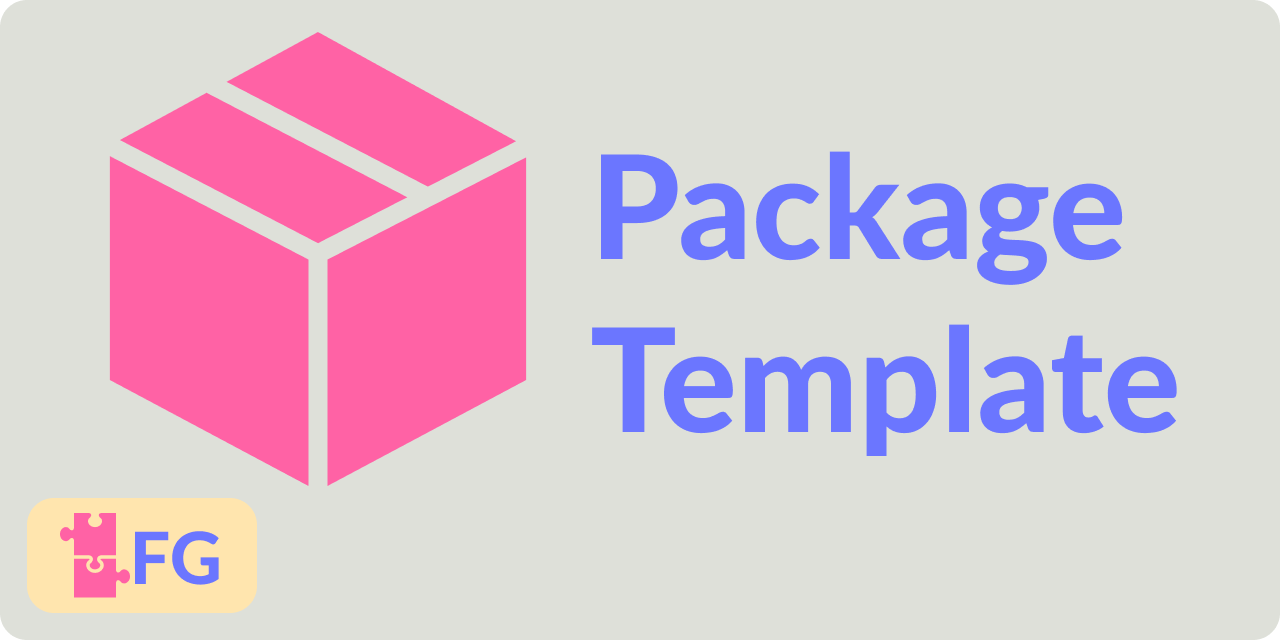
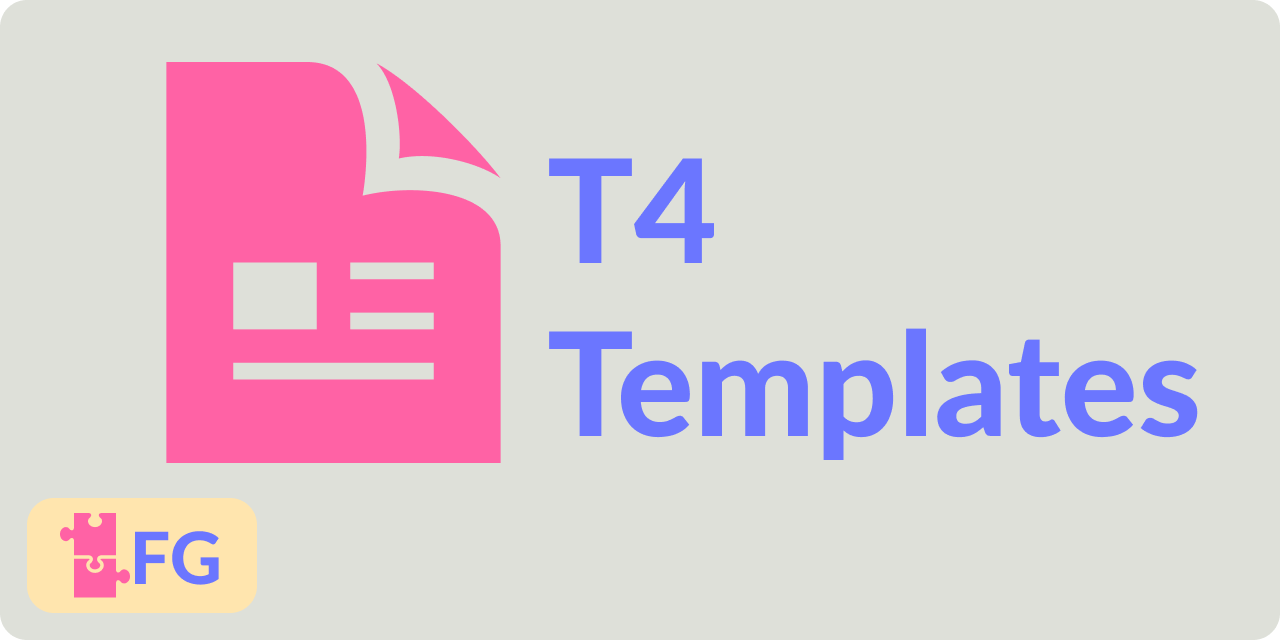
fix(header): Update header images 🎨

Changed region(s): [[0.0625, 0.0625, 0.9375, 0.75]]

diff --git a/README.md b/README.md
@@ -1,6 +1,6 @@
 # t4
 
-![Project logo; A pink package on a grey background, next to the text "T4" in purple](./Documentation~/header.png)
+![Project logo; A pink package on a grey background, next to the text "T4 Templates" in purple](./Documentation~/header.png)
 
 ![GitHub package.json version](https://img.shields.io/github/package-json/v/faster-games/t4)
 [![openupm](https://img.shields.io/npm/v/com.faster-games.t4?label=openupm&registry_uri=https://package.openupm.com)](https://openupm.com/packages/com.faster-games.t4/)

diff --git a/Documentation~/index.md b/Documentation~/index.md
@@ -1,5 +1,5 @@
 # T4
 
-<img src="./header.png" alt="Project logo; A pink package on a grey background, next to the text &quot;T4&quot; in purple" height="200px" />
+<img src="./header.png" alt="Project logo; A pink package on a grey background, next to the text &quot;T4 Templating&quot; in purple" height="200px" />
 
 T4 text template generative importer for Unity3D.
